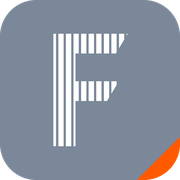
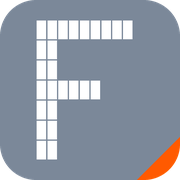
Replace F monogram with dot-matrix grid design, remove footer stripe pattern
- New monogram: 10x7 window-grid glyph (each cell a lit/unlit 'window'),
  digitized from reference sketch - reads clearly from favicon (16px) to
  large format, since it's a deliberate coarse pixel-grid rather than a
  fine texture over a solid shape
- logo-f.svg / logo-f-badge.svg rebuilt; favicons regenerated via
  8x supersampling + Lanczos downsample
- Footer reverted to plain ink background per feedback

Changed region(s): [[0.1944, 0.1111, 0.75, 0.8889]]

diff --git a/index.html b/index.html
@@ -333,11 +333,7 @@
   .browser .view .bnav span{ color:rgba(255,255,255,.8); font-family:'Barlow Semi Condensed'; font-size:8.5px; letter-spacing:.2em; text-transform:uppercase; }
   .browser .view .bcut2{ position:absolute; right:0; bottom:0; width:9%; aspect-ratio:1; background:var(--orange); clip-path:polygon(100% 0,100% 100%,0 100%); }
 
-  footer{
-    background-color:var(--ink); color:#fff; padding:clamp(56px,8vw,110px) var(--pad) 40px; position:relative; overflow:hidden;
-    background-image: repeating-linear-gradient(90deg, rgba(255,255,255,.045) 0 22px, transparent 22px 26px);
-  }
-  footer .top, footer .base{ position:relative; z-index:1; }
+  footer{ background:var(--ink); color:#fff; padding:clamp(56px,8vw,110px) var(--pad) 40px; position:relative; overflow:hidden; }
   footer .top{ display:flex; justify-content:space-between; align-items:flex-end; flex-wrap:wrap; gap:30px; }
   footer .big{ font-size:clamp(34px,5vw,84px); font-weight:600; line-height:1.05; letter-spacing:-.015em; }
   footer .big .o{ color:var(--orange); }
